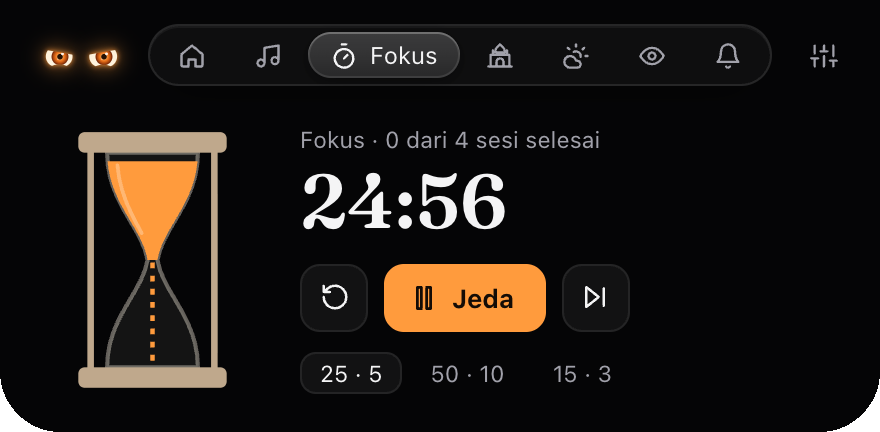
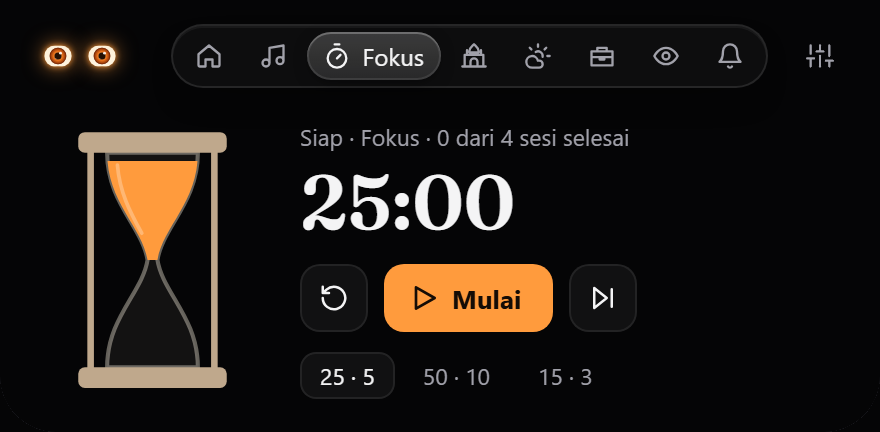
Antique: landing page (v0.1.0)

diff --git a/antique/main.js b/antique/main.js
@@ -70,13 +70,17 @@
       "panel.prayer": "Prayer times",
       "panel.homeAlt": "Home page of the panel: the time and date, plus music, focus and the next prayer time.",
       "panel.focusAlt": "Focus page of the panel: an hourglass, the time left, and start, pause and skip buttons.",
-      "panel.prayerAlt": "Prayer page of the panel: today's six prayer times for Jakarta, with Maghrib next.",
+      "panel.prayerAlt": "Prayer page of the panel: today's six prayer times for Jakarta, with Isha next.",
+      "panel.tools": "Tools",
+      "panel.toolsAlt": "Tools page of the panel: a to-do list with three tasks, and the other tools listed on the left.",
+      "panel.toolsText":
+        "A to-do list, quick notes, a calculator, clipboard history, a timer and a unit and currency converter, right under the notch.",
       "panel.homeText": "The time, what's playing, your focus timer and the next prayer, at a glance.",
       "panel.focusText":
         "A Pomodoro timer drawn as an hourglass. The sand runs while you work, and the glass flips over for your break.",
       "panel.prayerText": "Prayer times for your city, a reminder before each one, and an adzan sound you choose.",
       "panel.more": "There are pages for music with synced lyrics, the weather, and notifications too.",
-      "panel.note": "Screenshots from the app. Its interface is in Indonesian for now.",
+      "panel.note": "Screenshots from the app in Indonesian. It speaks English too.",
       "platforms.title": "At home on both.",
       "platforms.mac": "On a Mac",
       "platforms.mac1": "It wraps around the notch, so it looks like part of the screen.",
@@ -171,13 +175,17 @@
       "panel.prayer": "Waktu sholat",
       "panel.homeAlt": "Halaman Beranda di panel: jam dan tanggal, musik, fokus, dan waktu sholat berikutnya.",
       "panel.focusAlt": "Halaman Fokus di panel: jam pasir, sisa waktu, serta tombol mulai, jeda, dan lewati.",
-      "panel.prayerAlt": "Halaman Sholat di panel: enam waktu sholat hari ini untuk Jakarta, Maghrib berikutnya.",
+      "panel.prayerAlt": "Halaman Sholat di panel: enam waktu sholat hari ini untuk Jakarta, Isya berikutnya.",
+      "panel.tools": "Alat",
+      "panel.toolsAlt": "Halaman Alat di panel: daftar tugas berisi tiga tugas, dan alat lainnya di kiri.",
+      "panel.toolsText":
+        "Daftar tugas, catatan cepat, kalkulator, riwayat clipboard, timer, serta konversi satuan dan mata uang, tepat di bawah notch.",
       "panel.homeText": "Jam, lagu yang diputar, timer fokus, dan sholat berikutnya, sekali lihat.",
       "panel.focusText":
         "Timer Pomodoro berbentuk jam pasir. Pasirnya mengalir selama kamu bekerja, lalu kacanya berbalik untuk istirahat.",
       "panel.prayerText": "Waktu sholat untuk kotamu, pengingat sebelum tiap waktu, dan suara adzan pilihanmu.",
       "panel.more": "Ada juga halaman musik dengan lirik sinkron, cuaca, dan pemberitahuan.",
-      "panel.note": "Tangkapan layar dari aplikasinya.",
+      "panel.note": "Tangkapan layar dari aplikasinya. Tersedia dalam bahasa Indonesia dan English.",
       "platforms.title": "Betah di keduanya.",
       "platforms.mac": "Di Mac",
       "platforms.mac1": "Dia melingkari notch, jadi terlihat seperti bagian dari layar.",

diff --git a/antique/index.html b/antique/index.html
@@ -14,7 +14,7 @@
     <meta property="og:image" content="assets/film-poster.jpg" />
     <link rel="icon" href="assets/favicon.svg" type="image/svg+xml" />
     <link rel="preload" href="assets/fonts/fraunces-latin-600-normal.woff2" as="font" type="font/woff2" crossorigin />
-    <link rel="stylesheet" href="styles.css?v=a302461" />
+    <link rel="stylesheet" href="styles.css?v=afb61b6" />
   </head>
   <body>
     <a class="skip" href="#main" data-i18n="skip">Skip to content</a>
@@ -160,6 +160,7 @@
           <button type="button" role="tab" id="tab-home" aria-controls="view-home" aria-selected="true" data-i18n="panel.home">Home</button>
           <button type="button" role="tab" id="tab-focus" aria-controls="view-focus" aria-selected="false" tabindex="-1" data-i18n="panel.focus">Focus</button>
           <button type="button" role="tab" id="tab-prayer" aria-controls="view-prayer" aria-selected="false" tabindex="-1" data-i18n="panel.prayer">Prayer times</button>
+          <button type="button" role="tab" id="tab-tools" aria-controls="view-tools" aria-selected="false" tabindex="-1" data-i18n="panel.tools">Tools</button>
         </div>
 
         <div class="views">
@@ -175,12 +176,16 @@
             <img src="assets/panel-prayer.png" width="440" height="278" loading="lazy" alt="" data-i18n-alt="panel.prayerAlt" />
             <figcaption data-i18n="panel.prayerText">Prayer times for your city, a reminder before each one, and an adzan sound you choose.</figcaption>
           </figure>
+          <figure class="view" role="tabpanel" id="view-tools" aria-labelledby="tab-tools" hidden>
+            <img src="assets/panel-tools.png" width="440" height="272" loading="lazy" alt="" data-i18n-alt="panel.toolsAlt" />
+            <figcaption data-i18n="panel.toolsText">A to-do list, quick notes, a calculator, clipboard history, a timer and a unit and currency converter, right under the notch.</figcaption>
+          </figure>
         </div>
 
         <p class="panel-more" data-i18n="panel.more">
           There are pages for music with synced lyrics, the weather, and notifications too.
         </p>
-        <p class="note" data-i18n="panel.note">Screenshots from the app. Its interface is in Indonesian for now.</p>
+        <p class="note" data-i18n="panel.note">Screenshots from the app in Indonesian. It speaks English too.</p>
       </section>
 
       <section class="platforms" aria-labelledby="platforms-title">
@@ -264,6 +269,6 @@
       <p><a href="#top" data-i18n="foot.top">Back to top</a></p>
     </footer>
 
-    <script src="main.js?v=a302461" defer></script>
+    <script src="main.js?v=afb61b6" defer></script>
   </body>
 </html>

diff --git a/antique/privacy.html b/antique/privacy.html
@@ -103,6 +103,11 @@
         <li><b>Isi notifikasi aplikasi lain</b> (mis. WhatsApp), hanya untuk ditampilkan sesaat di notch, lalu dilupakan.</li>
         <li><b>Suara musik</b> yang diputar, dianalisis sesaat untuk equalizer. Tidak direkam dan tidak disimpan.</li>
         <li><b>Pengaturan, timer, dan lisensi</b> disimpan di folder data aplikasi di perangkatmu.</li>
+        <li><b>Tugas dan catatan</b> di halaman Alat disimpan di folder data aplikasi di perangkatmu.</li>
+        <li>
+          <b>Riwayat clipboard</b> hanya disimpan di memori dan hilang saat Antique ditutup. Isi yang ditandai
+          rahasia oleh pengelola kata sandi tidak direkam. Bisa dimatikan di Alat → Klip.
+        </li>
       </ul>
 
       <h2>Yang dikirim ke layanan lain</h2>
@@ -114,6 +119,10 @@
         <li>
           <b>Lirik:</b> judul, artis, album, dan durasi lagu yang sedang diputar dikirim ke
           <a href="https://lrclib.net/">LRCLIB</a> untuk mencari lirik.
+        </li>
+        <li>
+          <b>Kurs mata uang:</b> saat konversi mata uang dibuka, Antique mengambil kurs harian dari
+          <a href="https://www.exchangerate-api.com/">ExchangeRate-API</a>. Tidak ada data darimu yang ikut dikirim.
         </li>
         <li><b>Pembaruan:</b> Antique memeriksa versi baru di GitHub. Ini bisa dimatikan di Pengaturan → Tentang.</li>
       </ul>
@@ -135,11 +144,14 @@
         <p>
           Antique has no accounts, ads, or trackers, and no server of its own that receives your personal
           data. Your exact location (for prayer times), the content of other apps' notifications, and the
-          audio used for the equalizer stay on your device and are not stored.
+          audio used for the equalizer stay on your device and are not stored. Tasks and notes are saved in
+          the app's data folder; clipboard history lives in memory only, skips content marked secret by password
+          managers, and is gone when Antique quits.
         </p>
         <p>
           Antique sends: rounded coordinates (about 10 km) to MET Norway for the weather forecast; the title,
-          artist, album and length of the song playing to LRCLIB for lyrics; and update checks to GitHub
+          artist, album and length of the song playing to LRCLIB for lyrics; a request for daily exchange
+          rates to ExchangeRate-API when you convert currencies; and update checks to GitHub
           (can be turned off in Settings → About). These services see your IP address like any website and
           follow their own privacy policies.
         </p>
